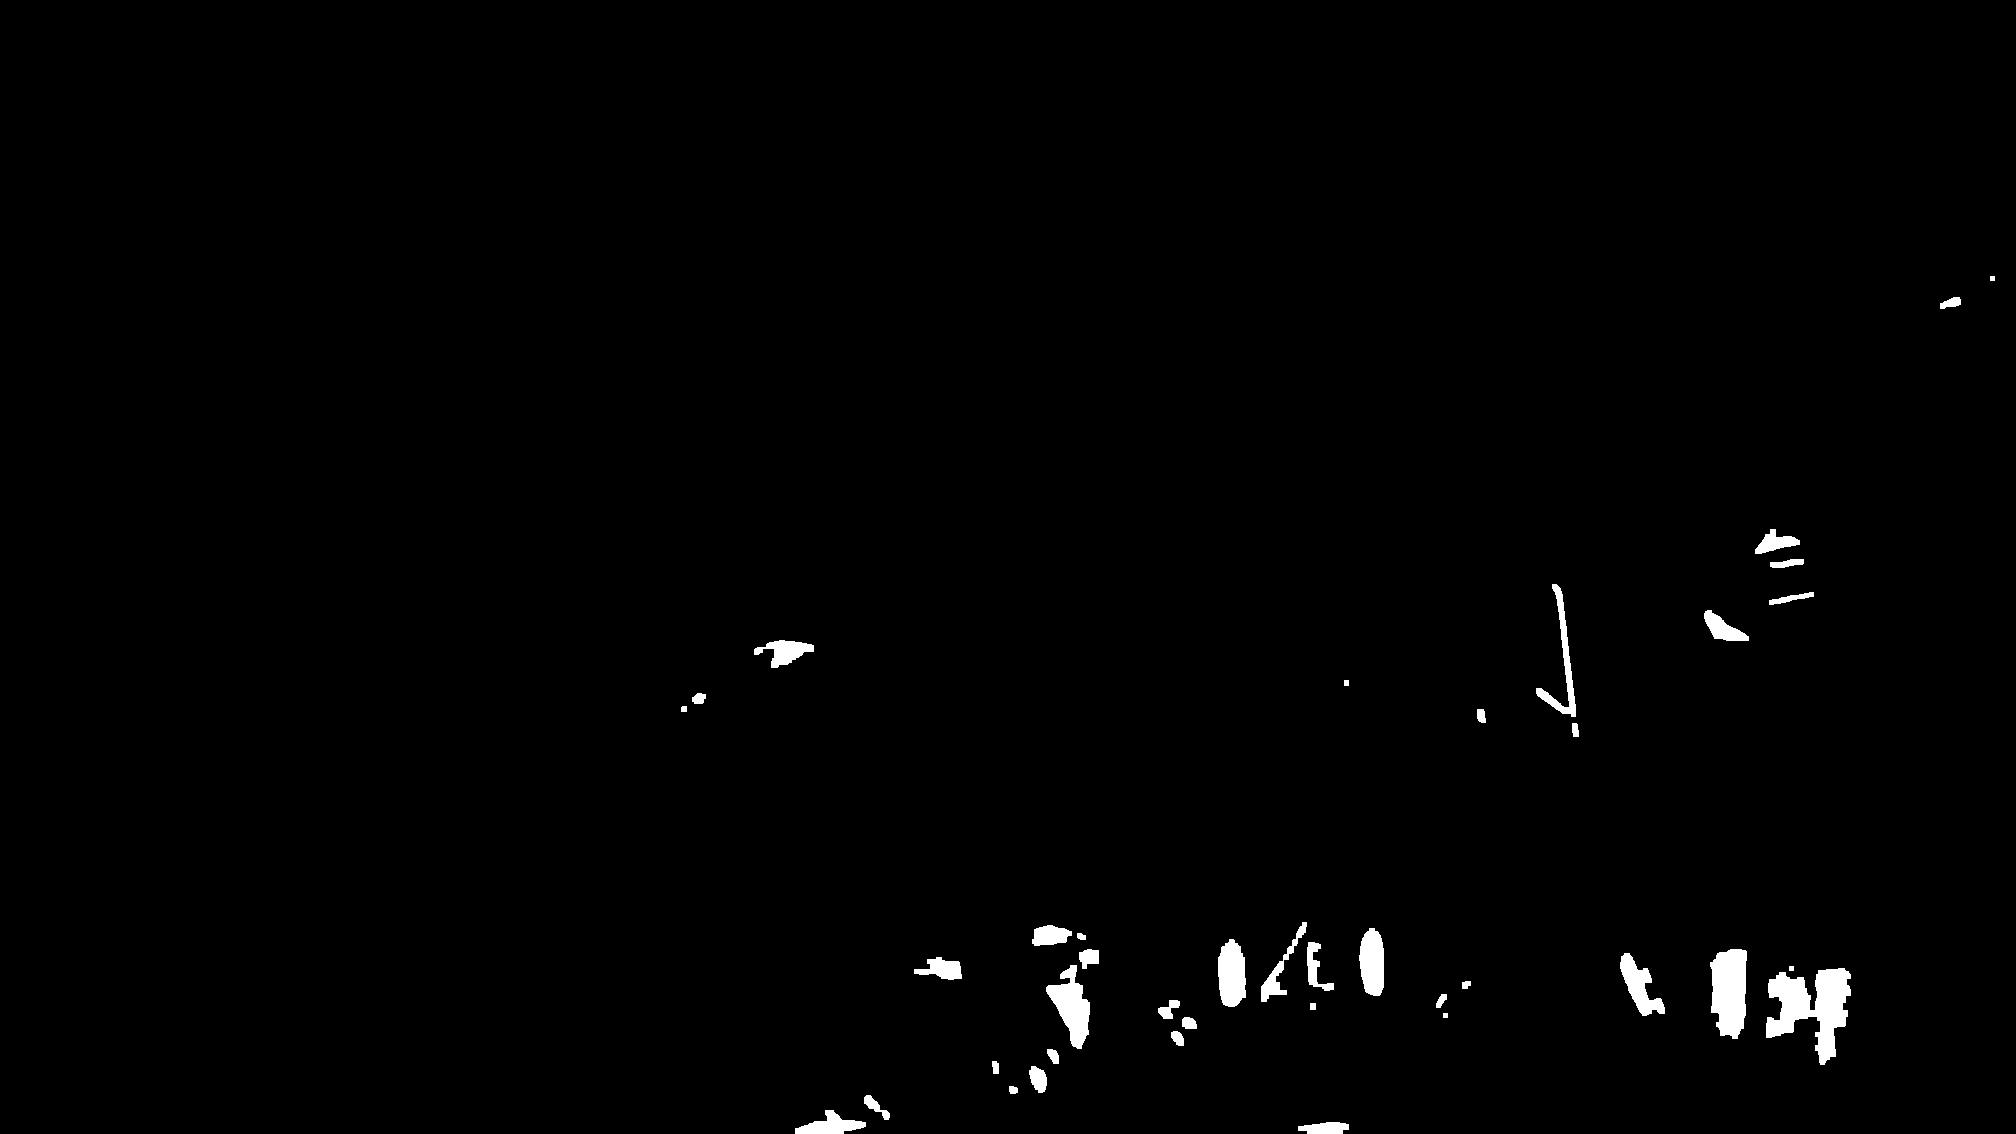
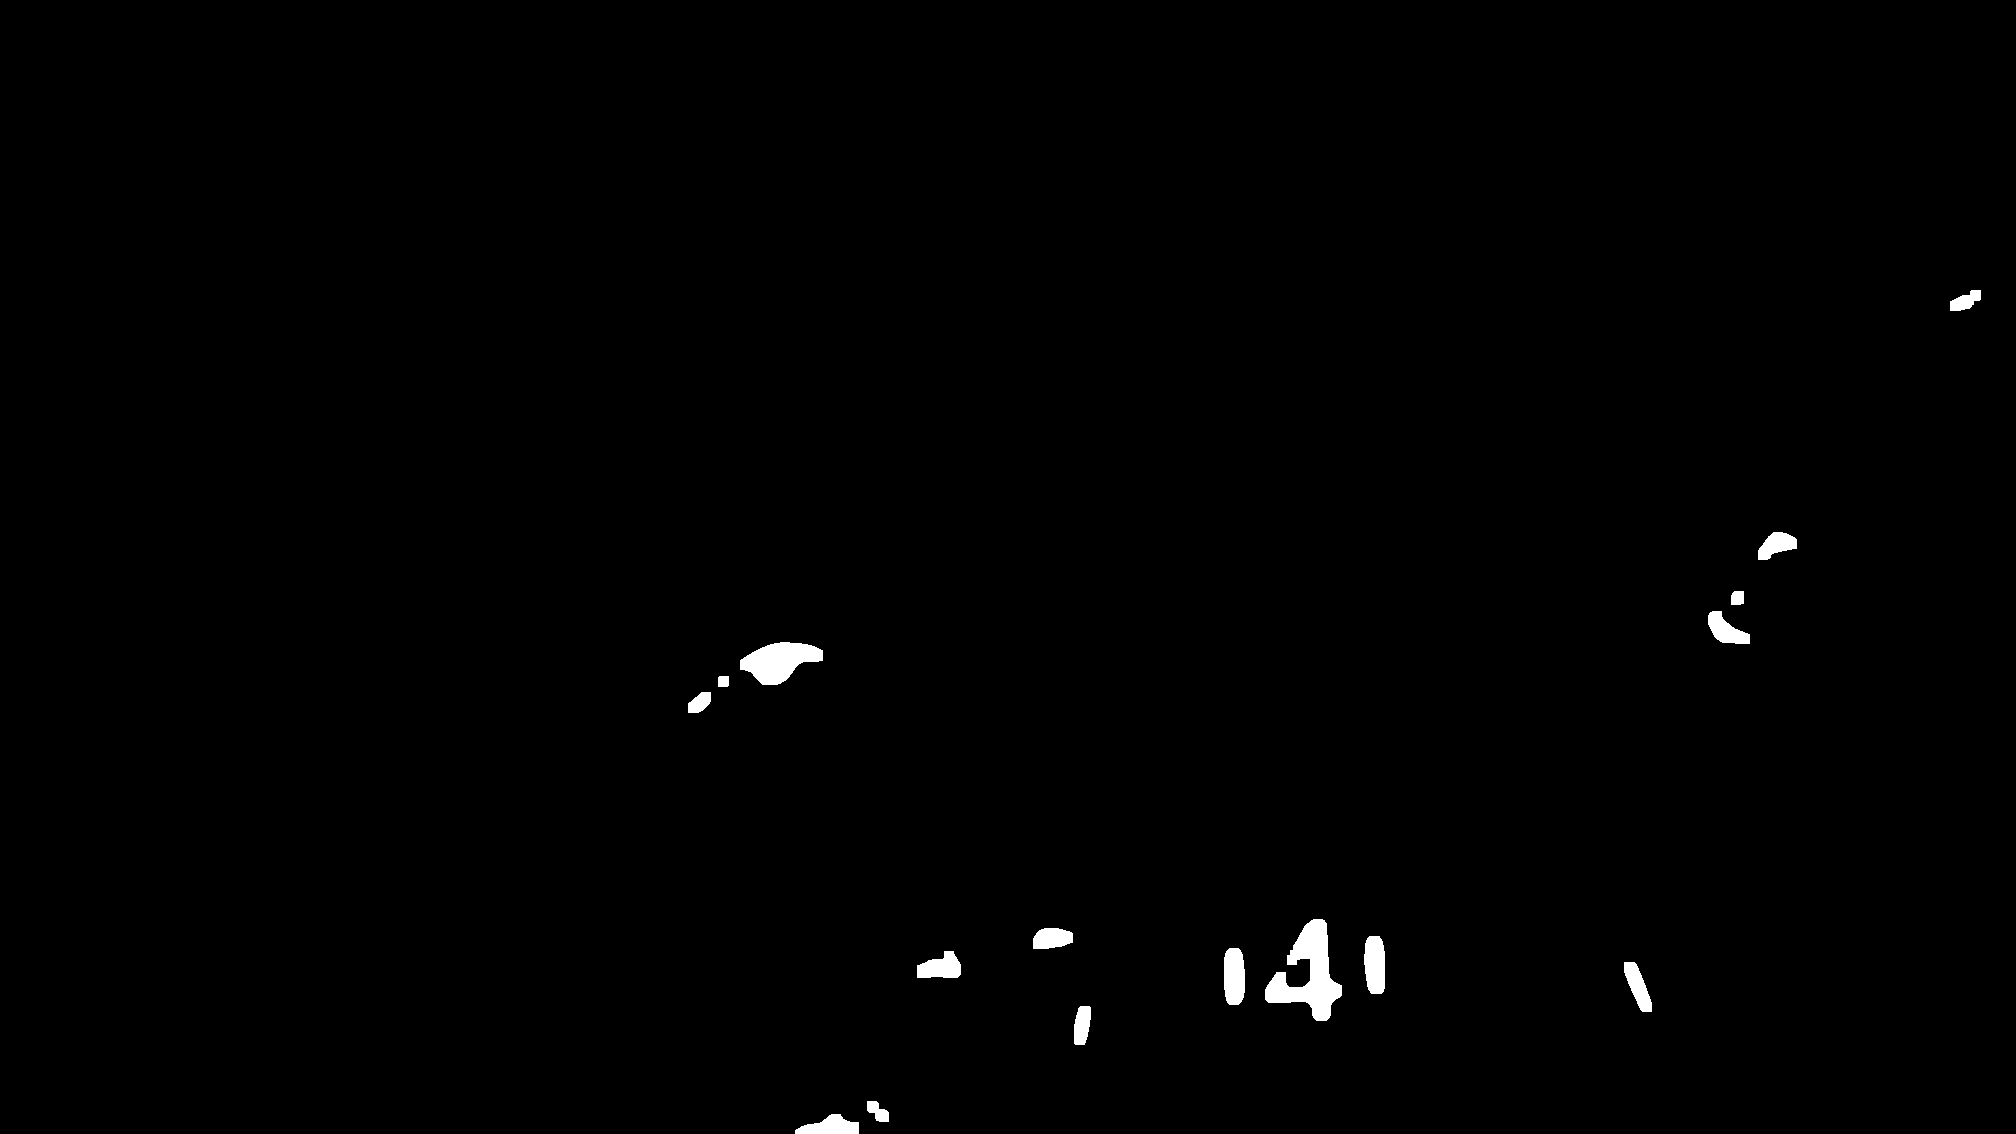
final version

diff --git a/XJTU-RMV-Task02/src/main.cpp b/XJTU-RMV-Task02/src/main.cpp
@@ -126,47 +126,19 @@ void detectLightBar(const Mat& src, Mat &dst) {
 
     // 中值滤波
     Mat medianImg;
-    medianBlur(gray, medianImg, 5);
+    medianBlur(gray, medianImg, 15);
     imwrite("output/img2_median.png", medianImg);
 
-    // 自适应阈值处理
-    Mat adaptive;
-    adaptiveThreshold(medianImg, adaptive, 255, ADAPTIVE_THRESH_GAUSSIAN_C, THRESH_BINARY, 11, 2);
+    Mat binary;
+    threshold(medianImg, binary, 220, 255, THRESH_BINARY);
 
-    // hsv转换
-    Mat hsv;
-    cvtColor(src, hsv, COLOR_BGR2HSV);
-    // // 蓝色阈值
-    // Scalar blueLow(100, 120, 100);
-    // Scalar blueHigh(140, 255, 255);
-    // Mat mask_blue;
-    // inRange(hsv, blueLow, blueHigh, mask_blue);
-
-    // // 白色阈值
-    // Scalar whiteLow(0, 0, 240);
-    // Scalar whiteHigh(150, 30, 255);
-    // Mat mask_white;
-    // inRange(hsv, whiteLow, whiteHigh, mask_white);
-
-    // // Mat mask = mask_blue | mask_white;
-
-    // Mat mask = mask_white;
-
-    // 亮度掩码
-    vector<Mat> hsvCh;
-    split(hsv, hsvCh);
-    Mat value = hsvCh[2];
-    Mat brightMask;
-    double brightThresh = 250;
-    threshold(value, brightMask, brightThresh, 255, THRESH_BINARY);
-    // mask = mask & brightMask;
-    Mat mask = brightMask;
+    Mat mask = binary;
 
     imwrite("output/img2_beforemask.png", mask);
 
     // 形态学去噪（先开后闭）
     Mat dilateImg, erodeImg, morphImg;
-    Mat kernel = getStructuringElement(MORPH_RECT, Size(5, 5));
+    Mat kernel = getStructuringElement(MORPH_RECT, Size(10, 10));
 
     dilate(mask, dilateImg, kernel);
     erode(dilateImg, erodeImg, kernel);
@@ -190,7 +162,7 @@ void detectLightBar(const Mat& src, Mat &dst) {
 
     for (auto& cont : contours) {
         double area = contourArea(cont);
-        if (area < 500) continue; // 面积筛选
+        if (area < 400) continue; // 面积筛选
 
         // 椭圆拟合筛选
         if (cont.size() < 5) continue; // 点数太少无法拟合椭圆
@@ -203,7 +175,7 @@ void detectLightBar(const Mat& src, Mat &dst) {
 
         // 椭圆长宽比和面积筛选
         if (ellipseRatio < 1.2 || ellipseRatio > 10.0) continue;
-        if (ellipseArea < 1300) continue;
+        if (ellipseArea < 100) continue;
 
         RotatedRect r = minAreaRect(cont);
         float w = r.size.width, h = r.size.height;
@@ -213,7 +185,6 @@ void detectLightBar(const Mat& src, Mat &dst) {
 
         float ratio = longSide / shortSide;
         if (ratio < 2.0 || ratio > 10.0) continue;  // 长宽比筛选
-        lightBars.push_back(r);
 
         // 角度规范化
         float angle = normalizedAngle(r);
@@ -238,12 +209,12 @@ void detectLightBar(const Mat& src, Mat &dst) {
             if (fabs(ratios[i] - ratios[j]) > 0.5) continue;
 
             // 面积接近
-            if (fabs(areas[i] - areas[j]) > 50) continue;
+            if (fabs(areas[i] - areas[j]) > 100) continue;
 
             // 生成装甲板矩形
             Point2f center = (lightBars[i].center + lightBars[j].center) * 0.5f;
-            float width = norm(lightBars[i].center - lightBars[j].center);
-            float height = (lightBars[i].size.height + lightBars[j].size.height) * 0.5f;
+            float height = norm(lightBars[i].center - lightBars[j].center);
+            float width = (lightBars[i].size.height + lightBars[j].size.height) * 2.0;
             float angle = (angles[i] + angles[j]) * 0.5f;
 
             RotatedRect armorRect(center, Size2f(width, height), angle);

diff --git a/XJTU-RMV-Task02/README.md b/XJTU-RMV-Task02/README.md
@@ -9,9 +9,12 @@
 2. 观察图片和参考群内消息得知装甲板位置的确定主要依靠两侧的蓝色灯条，故考虑通过确认灯条位置从而框选出中间包含的装甲板部分，但效果很差。回顾后发现主要是没有进行亮度筛选，且依靠位置判断并不如角度精确。
 3. 由于灯条中间发白导致没有被筛选到，故进行双掩码。然而效果仍然不尽人意。尽管白掩码看似效果更好但实际更差。算法始终无法读取到两侧的灯条而总是定位到奇奇怪怪的东西，多次调参仍无结果。AI也或许因为能力不足而进一步改进代码。
 4. 更换第四版方案，试图生啃别学校大佬的装甲板识别。
-5. 在队里大佬的指点下意识到第一版方案本身就是正确的，然而核心是亮度而不是颜色。同时预处理做的不够好。
+5. 在队里大佬的指点下意识到第一版方案本身就是正确的，然而核心是亮度而不是颜色。同时预处理做的不够好。经过反复调参和改错，最终成功。
 
 ## 所收获的
 1. 对图片的常见处理，如打开、裁减、缩放、绘制、轮廓寻找和开闭等。
 2. git的命令行操作。
-3. 对装甲板识别流程：读取->灰度化->滤波->二值化->hsv->（边缘检测）->形态学操作->筛选->配对
+3. 对装甲板识别流程：读取->灰度化->滤波->二值化->（边缘检测）->形态学操作->筛选->配对
+
+## 运行结果
+![](./Screenshot%20from%202025-09-21%2022-56-43.png)
